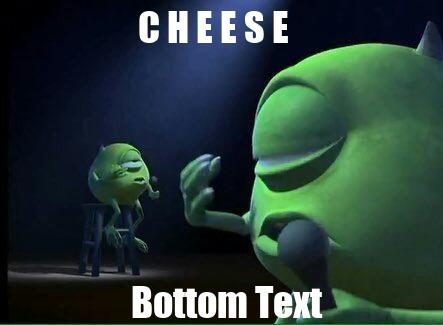
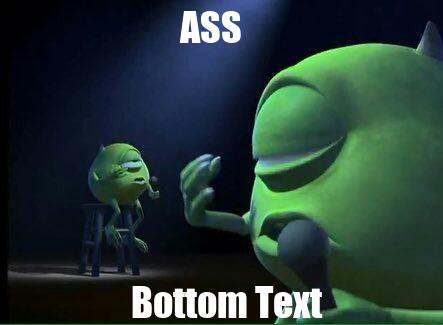
opdrachten Meme Maken

Changed region(s): [[0.2935, 0.0308, 0.6749, 0.1538]]

diff --git a/03-MemesGifs/maak_meme.py b/03-MemesGifs/maak_meme.py
@@ -11,9 +11,9 @@ print(achtergrond.format, achtergrond.size, achtergrond.mode)
 lettertype = ImageFont.truetype("impact.ttf", 40)
 
 tekengebied = ImageDraw.Draw(achtergrond)
-tekst1 = "C H E E S E "
+tekst1 = "ASS"
 tekst2 = "Bottom Text"
-tekengebied.multiline_text((138,10), tekst1, font=lettertype, fill=(1000,1000,1000))
+tekengebied.multiline_text((180,10), tekst1, font=lettertype, fill=(1000,1000,1000))
 tekengebied.multiline_text((131,285), tekst2, font=lettertype, fill=(1000,1000,1000))
 
 achtergrond.show()
